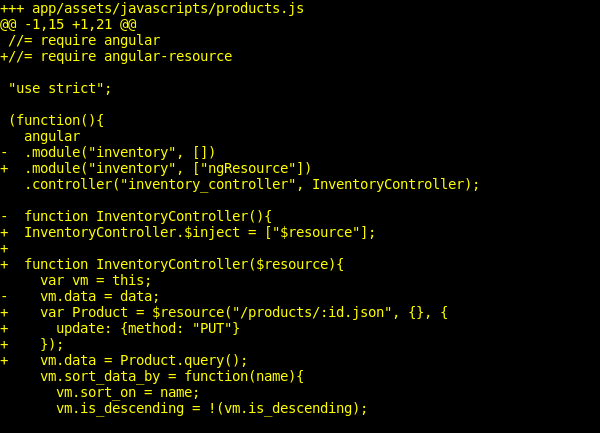
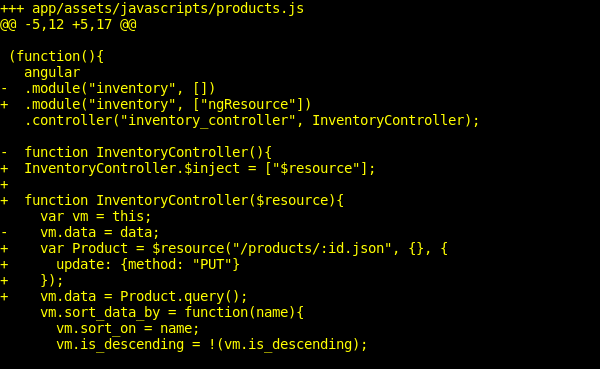
Moved ngResource to beginning

Changed region(s): [[0.0, 0.0, 0.81, 0.9837], [0.0, 0.7154, 0.03, 0.8347], [0.0, 0.6558, 0.03, 0.6856]]

diff --git a/walkthrough.md b/walkthrough.md
@@ -9,14 +9,15 @@ https://wdi-inventory-tracker.herokuapp.com/products
 If you already have `inventory_tracker` on your computer, try:
 
 ```
-$ git pull origin angular-solution
+$ git fetch
+$ git pull origin rails-starter
 ```
 
 Otherwise, clone down this repo:
 
 https://github.com/ga-wdi-exercises/inventory_tracker
 
-Checkout the `angular-solution` branch.
+Checkout the `rails-starter` branch.
 
 Play with it for a minute to re-familiarize yourself.
 
@@ -54,11 +55,12 @@ As for `app.js`, `angular.js`, and `bootstrap.css`, you may notice several other
 Rename the files as described. If a folder doesn't already exist, you'll need to create it.
 
 ```
-app.js        => app/assets/javascripts/products.js
-index.html    => app/views/products/index.html.erb
-data.js       => db/products_data.json
-angular.js    => vendor/assets/javascripts/angular.js
-bootstrap.css => vendor/assets/stylesheets/bootstrap.css
+app.js              => app/assets/javascripts/products.js
+index.html          => app/views/products/index.html.erb
+data.js             => db/products_data.json
+angular.js          => vendor/assets/javascripts/angular.js
+angular-resource.js => vendor/assets/javascripts/angular-resource.js
+bootstrap.css       => vendor/assets/stylesheets/bootstrap.css
 ```
 
 ## Commit: Define an index route for products
@@ -96,7 +98,7 @@ We no longer want to do this.
 
 Using the same formats as in `application.js` and `application.css` (they're each a little different because they're different languages), you can "require" any file that's in any of the "assets" folders, including `vendor/assets`. This will cause it to be included in the precompilation.
 
-Make the `products.js` include Angular, and create a `products.css` that includes Bootstrap.
+Make the `products.js` include Angular and ngResource, and create a `products.css` that includes Bootstrap.
 
 ![Pic](images/fix-manifest-css-prod.png)
 
@@ -163,11 +165,7 @@ Take a look at `localhost:3000/products.json`!
 
 ## Commit: Make Angular load the products from the database
 
-### First, download and include [ngResource](https://raw.githubusercontent.com/ga-wdi-exercises/inventory_tracker/rails-solution/vendor/assets/javascripts/angular-resource.js)
-
-#### Think: Based on what you've learned about the different "assets" folders, in which `assets` folder should it go?
-
-### Second, update `products.js` to use ngResource
+That is: update `products.js` to use ngResource.
 
 ![Pic](images/add-ngresource.png)
 
@@ -232,7 +230,7 @@ We can tell Angular when to fire the update method using `data-ng-change`.
 
 #### Think: Oh no! The screenshot is cut off!
 
-Guess you'll have to figure out for yourself what goes in there. 
+Guess you'll have to figure out for yourself what goes in there.
 
 ![Pic](images/ng-change.png)
 
@@ -288,4 +286,3 @@ $ heroku config:set SECRET_KEY_BASE=whatyoucopied
 ```
 
 *Now* try again to view it in your browser.
-
